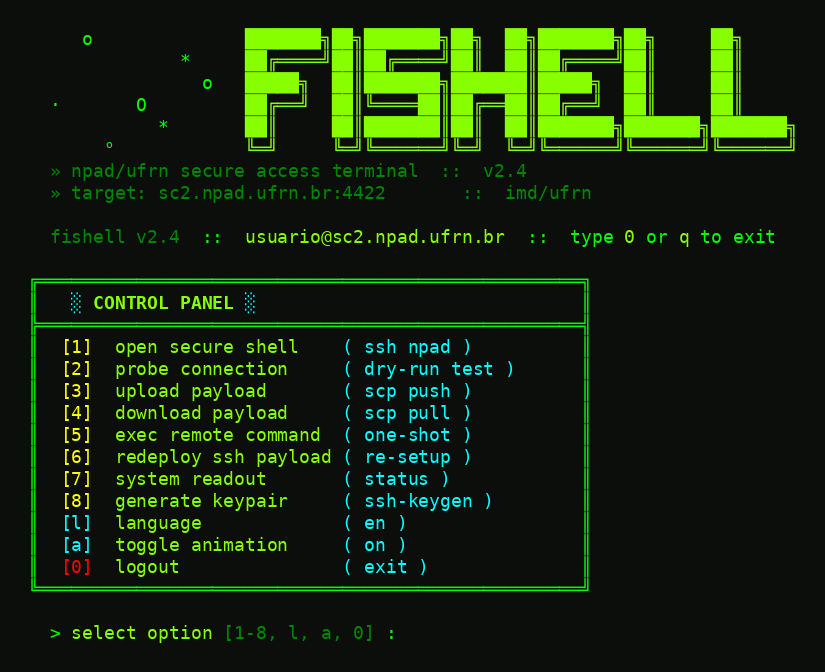
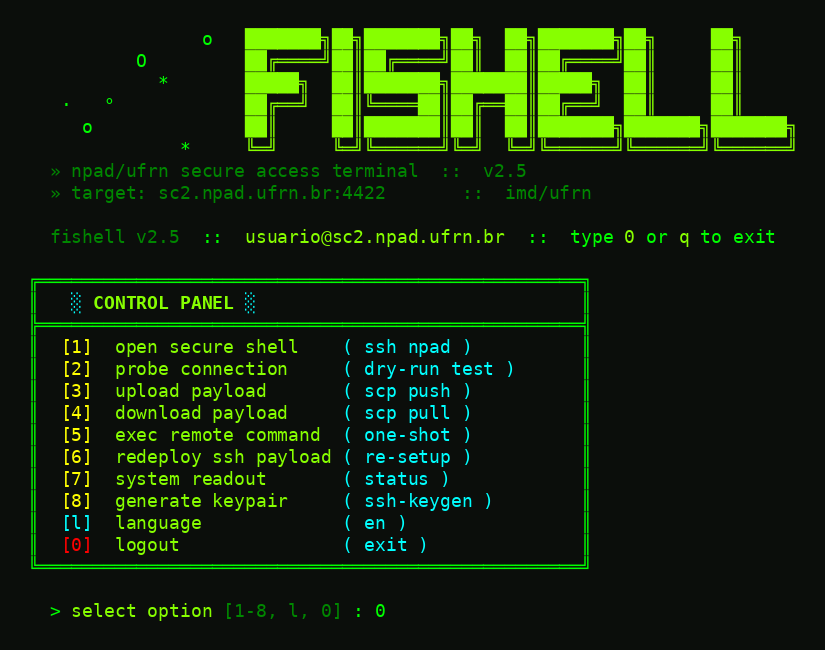
feat: remove a animacao; comentario da chave passa a identificar a maquina
A animacao (aquario animado na entrada + boot typewriter + redraw do topo
enquanto espera tecla) escrevia escape de cursor num terminal que rola. No
Colab o resultado era poluicao visual, que e' onde os alunos rodam. Sai a
animacao, o boot e o toggle [a]; fica o banner estatico, com frame fixo pra
saida deterministica.

Junto, um problema so' visivel fora de terminal: o `clear` era emitido mesmo
com stdout redirecionado, entao numa celula de notebook a saida vinha com
"[H[2J[3J" cru e o banner repetido tres vezes. Agora clear/cursor-home so'
acontecem em TTY.

O comentario da chave era "fishell", que nao diz nada: esse campo existe pra
distinguir chaves na lista do NPAD, e todas sairiam iguais. Passa a ser
fishell@<maquina> — "fishell@colab" quando roda no Colab, hostname nos demais.

No ps1 isso quase virou bug: $host e' variavel automatica read-only do
PowerShell e a atribuicao daria erro em runtime; usa $machine.

Sai tambem FISHELL_NOANIM, que ficou sem funcao, e com ela o truque do
gerador de screenshot que trocava "off" por "on" no painel. Em compensacao o
gerador precisou passar a mandar "0" pelo pty: sem a animacao o read espera
tecla pra sempre e um stdin fechado nao basta.

Versao 2.4 -> 2.5.

diff --git a/tools/make-screenshot.py b/tools/make-screenshot.py
@@ -50,16 +50,14 @@ def capture(lang="pt"):
         with open(cfg, "w", encoding="utf-8") as f:
             f.write(conf)
         # script(1) dá um pty ao filho — sem isso o fishell desliga as cores.
-        # FISHELL_NOANIM=1 é obrigatório: com animação o menu nunca vê o EOF.
+        # Manda "0" (sair) pelo pty: o menu lê uma tecla sem ENTER, então um
+        # stdin fechado o deixaria esperando para sempre.
         out = subprocess.run(
-            ["script", "-qec", f"FISHELL_LANG={lang} FISHELL_NOANIM=1 ./bin/fishell.sh", "/dev/null"],
-            cwd=work, stdin=subprocess.DEVNULL, stdout=subprocess.PIPE,
+            ["script", "-qec", f"FISHELL_LANG={lang} ./bin/fishell.sh", "/dev/null"],
+            cwd=work, input=b"0\n", stdout=subprocess.PIPE,
             stderr=subprocess.STDOUT, timeout=60,
         ).stdout.decode("utf-8", "replace")
-    # O painel mostra "off" porque a captura precisou desligar a animação (com
-    # ela ligada o menu nunca vê o EOF); num run normal o usuário vê "on".
-    # O espaço extra mantém as 50 colunas da caixa, já que "on" é 1 char menor.
-    return out.replace("( off )", "( on ) ")
+    return out
 
 
 def parse(raw):

diff --git a/.github/scripts/check_panel.py b/.github/scripts/check_panel.py
@@ -5,7 +5,7 @@ A caixa do CONTROL PANEL é montada com padding contado à mão nos dois ports
 (printf '%-20s'/'%-16s' no bash, .PadRight() no ps1). Um título ou hint mais
 longo que o pad desalinha a caixa inteira sem quebrar nada mais — daí o check.
 
-Uso: FISHELL_NOANIM=1 NO_COLOR=1 ./fishell.sh </dev/null | check_panel.py
+Uso: NO_COLOR=1 ./bin/fishell.sh </dev/null | python3 check_panel.py
 """
 import sys
 

diff --git a/README.md b/README.md
@@ -206,7 +206,6 @@ ENTER.
 | `7`   | mostra a configuração atual (usuário, host, porta, chaves)    |
 | `8`   | gera um par de chaves novo                                    |
 | `l`   | troca o idioma da interface (pt ⇄ en)                         |
-| `a`   | liga/desliga a animação do banner                             |
 | `0` ou `q` | sai                                                      |
 
 ### Idioma
@@ -456,7 +455,7 @@ número de versão.
 bash -n src/bash/fishell.sh bin/fishell.sh          # sintaxe
 shellcheck src/bash/fishell.sh bin/fishell.sh       # se disponível
 
-FISHELL_LANG=pt FISHELL_NOANIM=1 NO_COLOR=1 ./bin/fishell.sh </dev/null \
+FISHELL_LANG=pt NO_COLOR=1 ./bin/fishell.sh </dev/null \
   | python3 .github/scripts/check_panel.py          # a caixa tem 50 colunas
 
 python3 tools/make-screenshot.py                    # regenera o print do README
